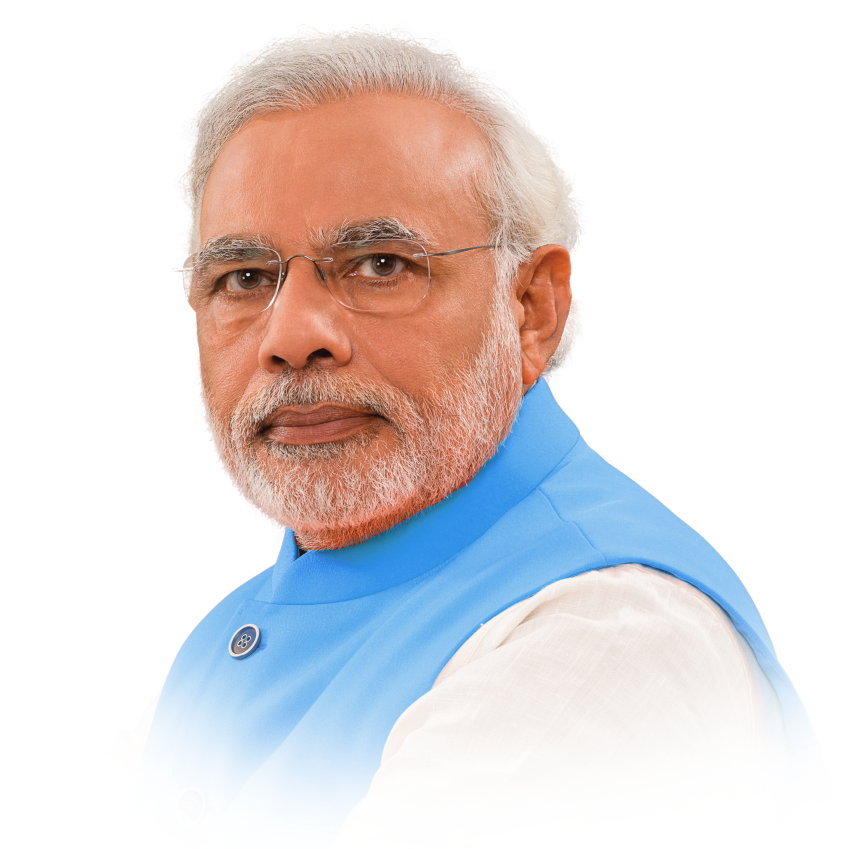
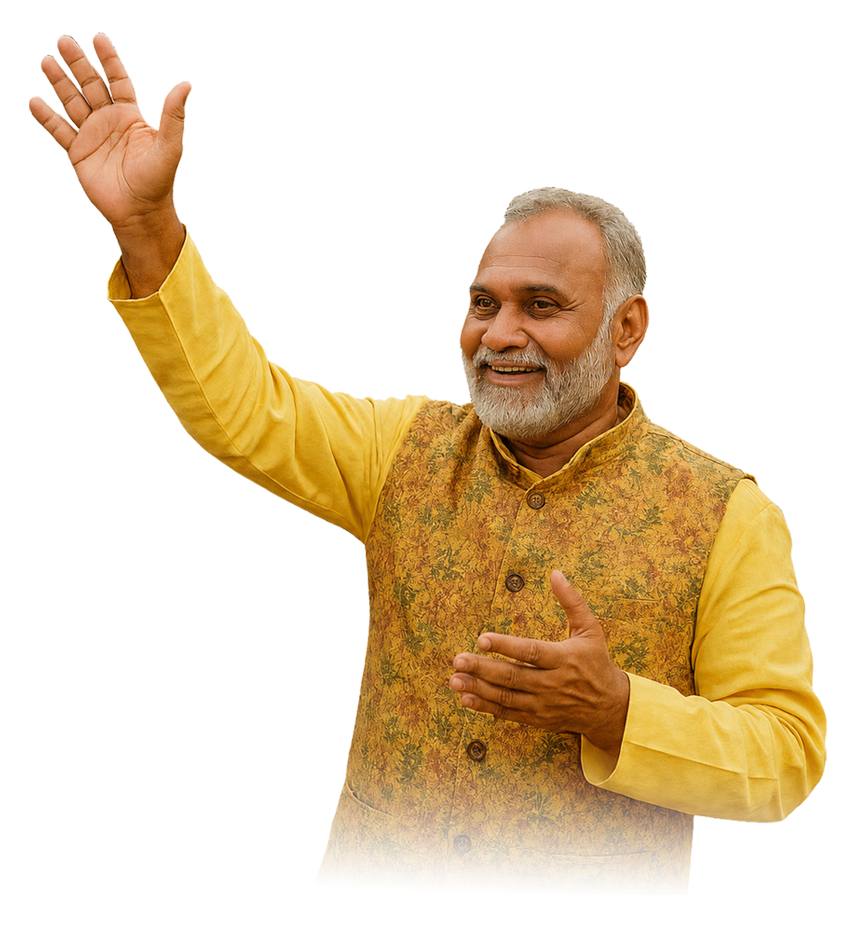
q23ew

diff --git a/src/components/layout/Header.tsx b/src/components/layout/Header.tsx
@@ -20,6 +20,8 @@ import {
 import { nav, site } from "@/data/site";
 import { Logo } from "@/components/layout/Logo";
 
+const PHOTO_MAX_CHARS = 2_500_000;
+
 export function Header() {
   const pathname = usePathname();
   const [open, setOpen] = useState(false);
@@ -73,6 +75,51 @@ export function Header() {
     });
   }
 
+  async function preparePhoto(file: File): Promise<string> {
+    const original = await readPhoto(file);
+
+    return new Promise((resolve) => {
+      const image = new Image();
+      image.onload = () => {
+        const canvas = document.createElement("canvas");
+        const context = canvas.getContext("2d");
+
+        if (!context) {
+          resolve(original.length <= PHOTO_MAX_CHARS ? original : "");
+          return;
+        }
+
+        const sizes = [1200, 1000, 800, 640];
+        const qualities = [0.78, 0.7, 0.62];
+        let fallback = "";
+
+        for (const maxSize of sizes) {
+          const scale = Math.min(1, maxSize / Math.max(image.width, image.height));
+          const width = Math.max(1, Math.round(image.width * scale));
+          const height = Math.max(1, Math.round(image.height * scale));
+          canvas.width = width;
+          canvas.height = height;
+          context.fillStyle = "#ffffff";
+          context.fillRect(0, 0, width, height);
+          context.drawImage(image, 0, 0, width, height);
+
+          for (const quality of qualities) {
+            const photo = canvas.toDataURL("image/jpeg", quality);
+            fallback = photo;
+            if (photo.length <= PHOTO_MAX_CHARS) {
+              resolve(photo);
+              return;
+            }
+          }
+        }
+
+        resolve(fallback.length <= PHOTO_MAX_CHARS ? fallback : "");
+      };
+      image.onerror = () => resolve(original.length <= PHOTO_MAX_CHARS ? original : "");
+      image.src = original;
+    });
+  }
+
   async function submitVikasMitra(event: React.FormEvent<HTMLFormElement>) {
     event.preventDefault();
     const form = event.currentTarget;
@@ -80,7 +127,7 @@ export function Header() {
     setVikasStatus("loading");
     setVikasError("");
     const photoFile = data.get("photo");
-    const photo = photoFile instanceof File && photoFile.size > 0 ? await readPhoto(photoFile) : "";
+    const photo = photoFile instanceof File && photoFile.size > 0 ? await preparePhoto(photoFile) : "";
     try {
       const profileResponse = await fetch("/api/vikas-mitra", {
         method: "POST",
@@ -415,7 +462,7 @@ export function Header() {
                   accept="image/*"
                   onChange={async (event) => {
                     const file = event.currentTarget.files?.[0];
-                    setPhotoPreview(file ? await readPhoto(file) : "");
+                    setPhotoPreview(file ? await preparePhoto(file) : "");
                   }}
                   className="w-full rounded-md border border-[#efd5bc] bg-white px-3.5 py-2.5 text-sm font-semibold text-[#321815] file:mr-3 file:rounded-md file:border-0 file:bg-saffron file:px-3 file:py-2 file:text-xs file:font-extrabold file:text-white focus:border-saffron focus:ring-2 focus:ring-saffron/25 focus:outline-none"
                 />

diff --git a/src/app/admin/page.tsx b/src/app/admin/page.tsx
@@ -18,6 +18,7 @@ import {
   XCircle,
 } from "lucide-react";
 import { adminEmail, adminPassword } from "@/lib/admin-auth";
+import { formatVikasMitraId } from "@/lib/profile-id";
 
 type Tab = "vikas" | "contacts" | "plans";
 
@@ -331,7 +332,7 @@ function buildApprovalMail(row: Vikas) {
     "Aapka Vikas Mitra profile approve ho gaya hai.",
     "",
     "VIKAS MITRA CARD",
-    `Unique ID: ${row.id}`,
+    `Unique ID: ${formatVikasMitraId(row.id, row.createdAt)}`,
     `Name: ${row.name}`,
     `Mobile: ${row.phone}`,
     `Location: ${row.village}, ${row.tehsil}, ${row.district}`,
@@ -399,6 +400,9 @@ function VikasList({
                   <h3 className="text-xl font-black">{row.name}</h3>
                   <StatusBadge status={row.status} />
                 </div>
+                <p className="mt-2 text-xs font-black tracking-[0.16em] text-orange-600 uppercase">
+                  {formatVikasMitraId(row.id, row.createdAt)}
+                </p>
                 <p className="mt-1 text-sm font-bold text-slate-600">{row.phone} {row.email ? `| ${row.email}` : ""}</p>
                 <p className="mt-2 text-sm text-slate-700">{row.village}, {row.tehsil}, {row.district}</p>
                 <p className="mt-2 text-sm font-semibold text-slate-600">{row.occupation} {row.experience ? `| ${row.experience}` : ""}</p>

diff --git a/src/routes/index.tsx b/src/routes/index.tsx
@@ -63,7 +63,7 @@ export default function Index() {
 
             <div className="mt-12 flex flex-col gap-5 sm:flex-row">
               <Link
-                href="/campaign-website"
+                href="https://faithful-frontent.vercel.app/"
                 className="inline-flex min-w-[270px] items-center justify-center gap-4 rounded-lg bg-[#5a060b] px-9 py-5 text-xl font-extrabold text-white shadow-[0_14px_26px_rgba(80,8,10,.22)]"
               >
                 डेमो अभियान देखें <ArrowRight className="h-6 w-6" />
@@ -201,7 +201,7 @@ export default function Index() {
                 ))}
               </ul>
               <Link
-                href="/campaign-website"
+                href="https://faithful-frontent.vercel.app/"
                 className="mt-6 inline-flex items-center gap-2 rounded-md bg-maroon px-6 py-3 text-sm font-bold text-white"
               >
                 डेमो वेबसाइट देखें <ArrowRight className="h-4 w-4" />

diff --git a/src/app/vikas-mitra/page.tsx b/src/app/vikas-mitra/page.tsx
@@ -2,6 +2,7 @@ import Image from "next/image";
 import { MapPin, Phone, UserRound } from "lucide-react";
 import { listVikasMitraProfiles } from "@/lib/vikas-mitra.server";
 import type { VikasMitraProfile } from "@/lib/vikas-mitra.server";
+import { formatVikasMitraId } from "@/lib/profile-id";
 
 export const dynamic = "force-dynamic";
 
@@ -84,6 +85,9 @@ export default async function VikasMitraPage() {
                   )}
                 </div>
                 <div className="p-5">
+                  <p className="text-xs font-black tracking-[0.16em] text-saffron uppercase">
+                    {formatVikasMitraId(profile.id, profile.createdAt)}
+                  </p>
                   <h2 className="font-display text-2xl font-black text-maroon">{profile.name}</h2>
                   <div className="mt-3 space-y-2 text-sm font-semibold text-[#4b302b]">
                     <p className="flex items-center gap-2">

diff --git a/src/app/api/vikas-mitra/route.ts b/src/app/api/vikas-mitra/route.ts
@@ -1,6 +1,7 @@
 import { NextResponse } from "next/server";
 import { z } from "zod";
 import { createVikasMitraProfile, listVikasMitraProfiles } from "@/lib/vikas-mitra.server";
+import { formatVikasMitraId } from "@/lib/profile-id";
 
 const profileSchema = z.object({
   name: z.string().min(2).max(80),
@@ -36,7 +37,7 @@ export async function POST(request: Request) {
       photo: data.photo || undefined,
     });
 
-    return NextResponse.json({ ok: true, id: profile.id });
+    return NextResponse.json({ ok: true, id: formatVikasMitraId(profile.id, profile.createdAt) });
   } catch (error) {
     const message = error instanceof Error ? error.message : "Vikas Mitra form submit failed";
     return NextResponse.json({ ok: false, error: message }, { status: 400 });

diff --git a/src/lib/local-store.server.ts b/src/lib/local-store.server.ts
@@ -12,7 +12,14 @@ export async function readLocalRows<T extends { id: string }>(name: string): Pro
   try {
     const file = await filePath(name);
     const content = await readFile(file, "utf8");
-    return JSON.parse(content) as T[];
+    const parsed = JSON.parse(content) as unknown;
+    if (Array.isArray(parsed)) {
+      return parsed as T[];
+    }
+    if (parsed && typeof parsed === "object" && "id" in parsed) {
+      return [parsed as T];
+    }
+    return [];
   } catch {
     return [];
   }

diff --git a/src/data/site.ts b/src/data/site.ts
@@ -19,9 +19,9 @@ import {
 export const site = {
   name: "भारत पहचान",
   tagline: "डिजिटल अभियान, सुरक्षित पहचान",
-  phone: "+91 76918 06689",
-  whatsapp: "+91 76918 06689",
-  whatsappUrl: "https://wa.me/917691806689",
+  phone: "+91 7891131132",
+  whatsapp: "+91 7891131132",
+  whatsappUrl: "https://wa.me/917891131132",
   email: "info@bharatpehchaan.com",
   website: "www.bharatpehchaan.com",
   socialLinks: {

diff --git a/src/components/site/CtaBand.tsx b/src/components/site/CtaBand.tsx
@@ -260,7 +260,7 @@ export function CtaBand() {
                 </button>
                 {status === "done" && (
                   <p className="mt-3 flex items-center gap-2 text-sm font-extrabold text-[#1b7650]">
-                    <CheckCircle2 className="h-4 w-4" /> Lead submit ho gayi. Admin panel me aa jayegi.
+                    <CheckCircle2 className="h-4 w-4" /> submit.
                   </p>
                 )}
                 {status === "error" && (

diff --git a/src/routes/campaign-website.tsx b/src/routes/campaign-website.tsx
@@ -45,7 +45,7 @@ export default function CampaignWebsite() {
                 ))}
               </ul>
               <Link
-                href="/contact"
+                href="https://faithful-frontent.vercel.app/"
                 className="mt-6 inline-flex items-center gap-2 rounded-md bg-maroon px-5 py-3 text-sm font-semibold text-white"
               >
                 डेमो वेबसाइट देखें <ArrowRight className="h-4 w-4" />

diff --git a/src/lib/profile-id.ts b/src/lib/profile-id.ts
@@ -1,0 +1,13 @@
+export function formatVikasMitraId(id: string, createdAt?: string) {
+  if (id.toUpperCase().startsWith("BHR")) {
+    return id.toUpperCase();
+  }
+
+  const year = createdAt ? new Date(createdAt).getFullYear() : new Date().getFullYear();
+  const suffix = id
+    .replace(/[^a-z0-9]/gi, "")
+    .slice(0, 6)
+    .toUpperCase();
+
+  return `BHR${Number.isFinite(year) ? year : new Date().getFullYear()}-${suffix}`;
+}
